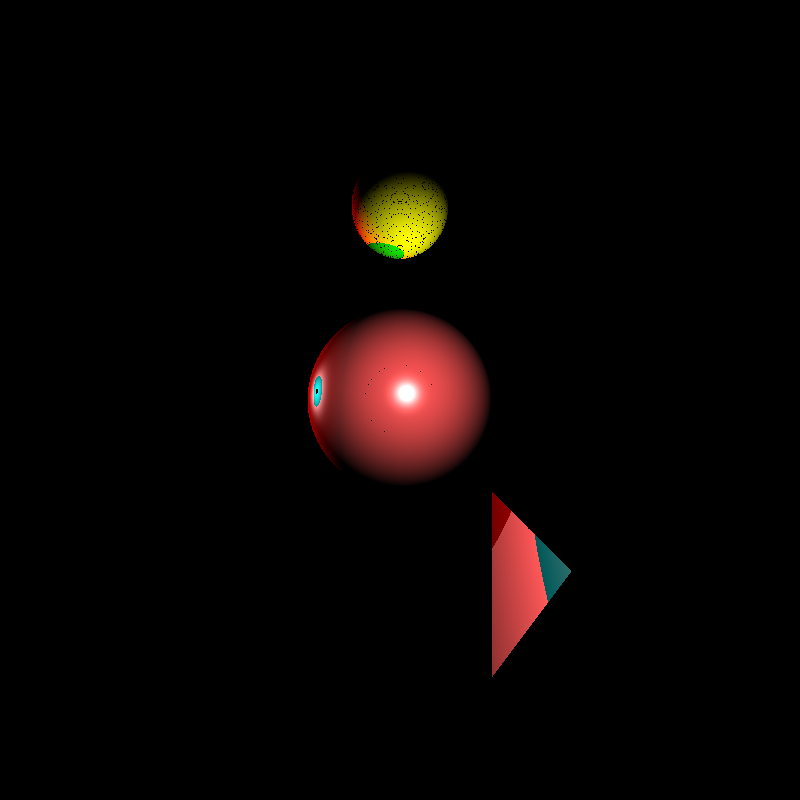
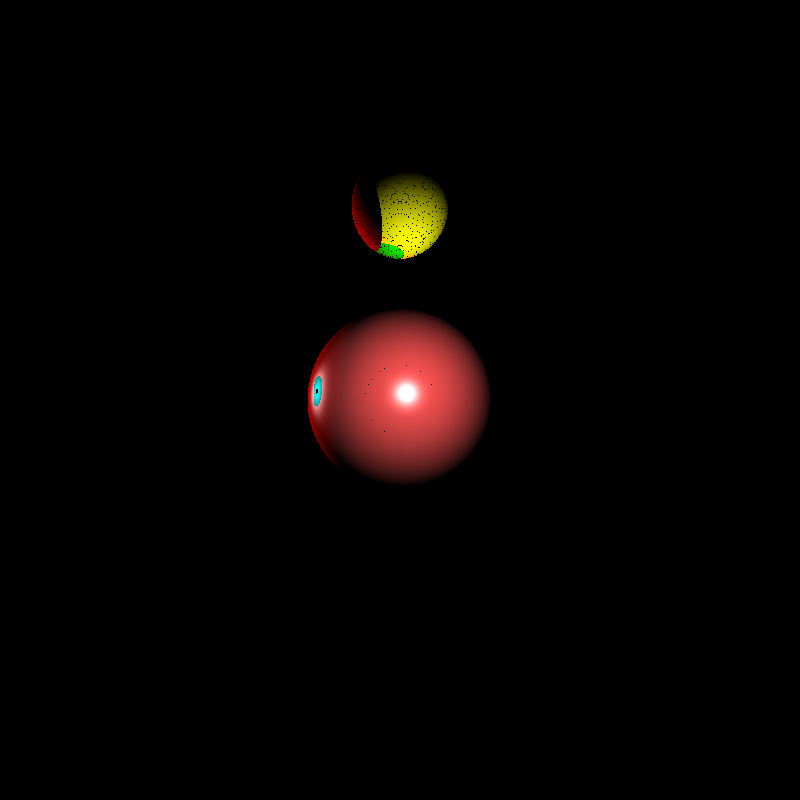
update

Changed region(s): [[0.5938, 0.625, 0.7188, 0.8438], [0.4375, 0.2188, 0.5, 0.3125]]

diff --git a/main.cpp b/main.cpp
@@ -611,9 +611,9 @@ int main(int argc, char *argv[])
                         s->specular = glm::vec3(x, y, z);
                 }
 
-                s->p = p2;
-                s->v1 = p1 - p2;
-                s->v2 = p3 - p2;
+                s->p = p1;
+                s->v1 = p2 - p1;
+                s->v2 = p3 - p1;
                 objects.push_back(unique_ptr<Quad>(s));
             }
         }
